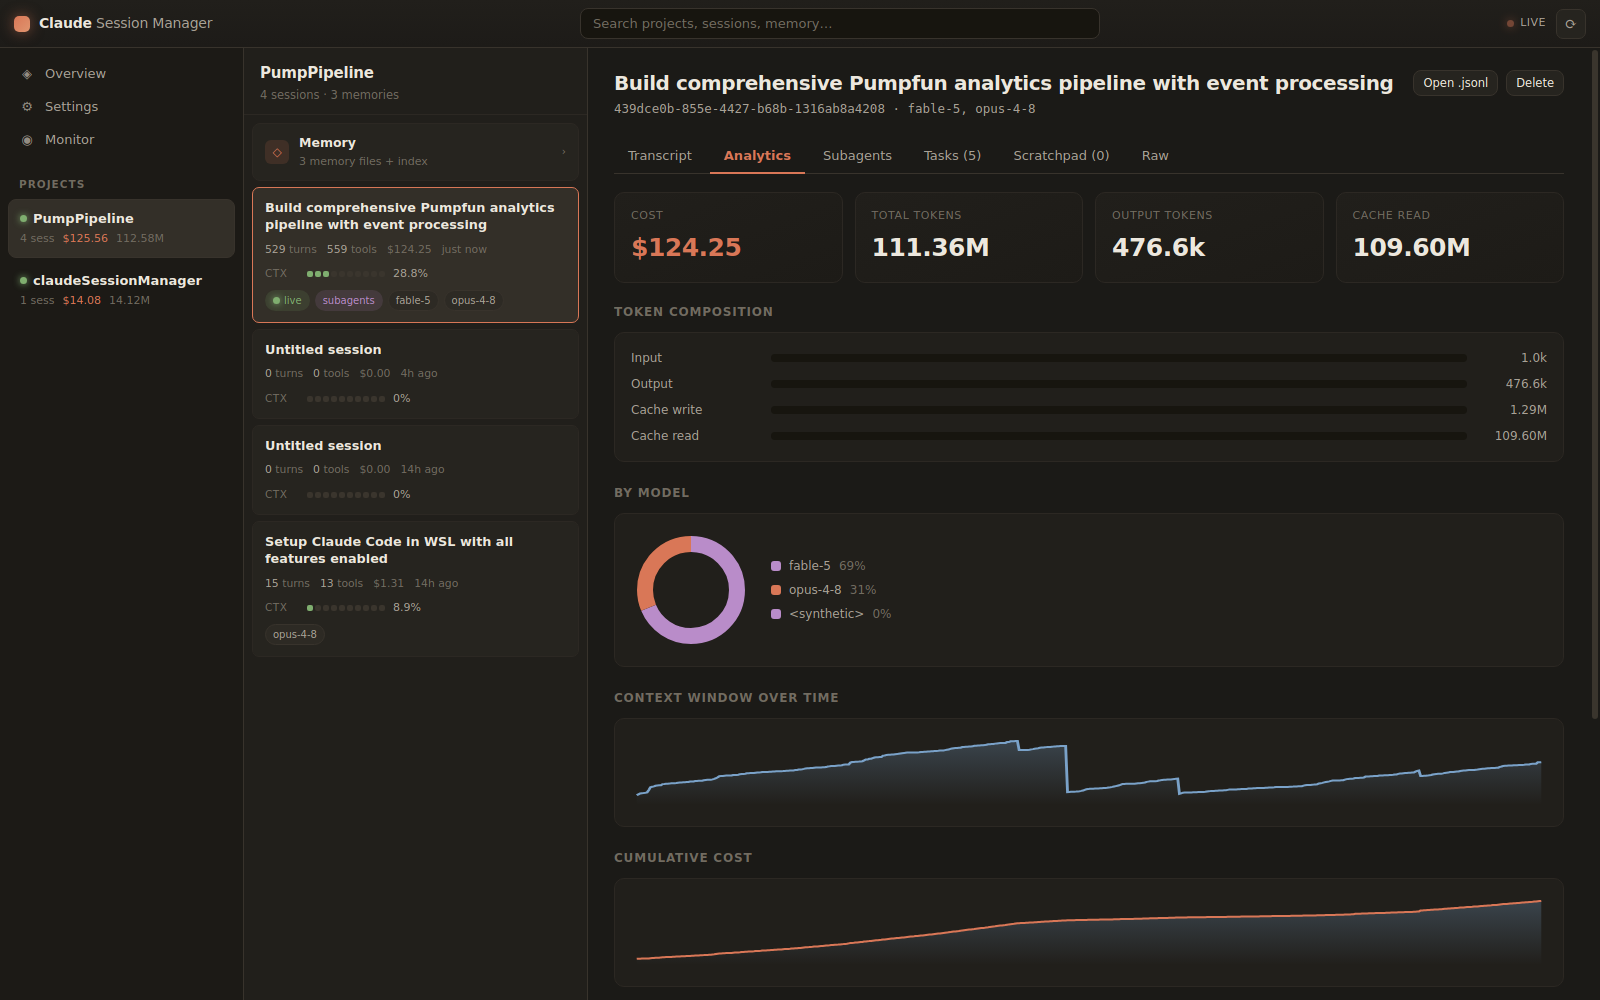
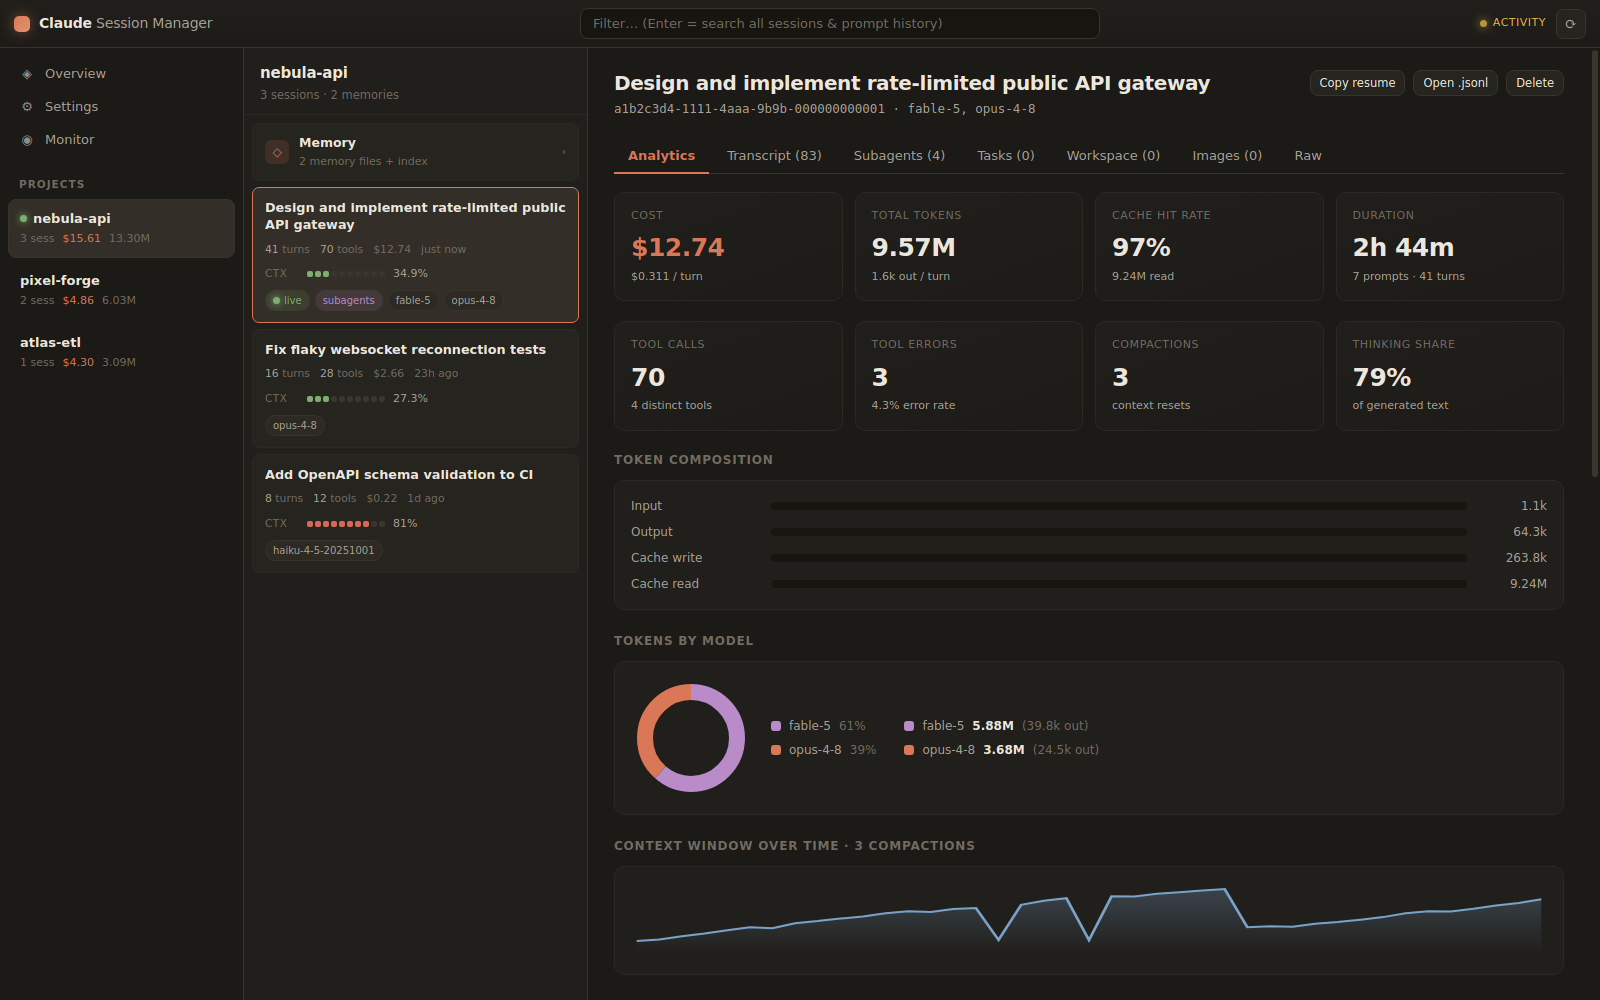
docs: changelog, contributing guide, demo-data screenshots
Screenshots are rendered from a generated demo home — no real usage
data ships in the repo.

Claude-Session: https://claude.ai/code/session_01RHChrrDekDFZSytviwmv3K

diff --git a/CHANGELOG.md b/CHANGELOG.md
@@ -1,0 +1,51 @@
+# Changelog
+
+All notable changes to this project are documented here. The format follows
+[Keep a Changelog](https://keepachangelog.com/) and the project adheres to
+[Semantic Versioning](https://semver.org/).
+
+## [0.3.0] — 2026-07-18
+
+### Changed
+- **Transcripts are paged.** The backend now serves a small window of messages
+  (the newest first) instead of serializing the whole reconstructed transcript;
+  earlier pages load on demand and live sessions append only newly written
+  events. Session payloads shrink from megabytes to kilobytes.
+- **Analytics-first.** Opening a session lands on the Analytics tab.
+- The live indicator is self-explanatory: steady green *watching*, amber
+  *activity* while Claude Code writes to disk.
+
+### Added
+- Greatly expanded per-session analytics, all pre-aggregated server-side:
+  cache hit rate, cost/output per turn, session duration, tool error counts
+  and error rate, errors by tool, context compaction count, thinking share,
+  hottest files (Read/Write/Edit targets), top shell commands, output tokens
+  per turn, and activity-by-hour histogram — alongside the existing token
+  composition, tokens by model, context-over-time and cumulative-cost charts.
+- Subagent view is server-aggregated (Agent/Task invocations + sidechain
+  messages) and independent of the loaded transcript window.
+- CHANGELOG, CONTRIBUTING, and dummy-data documentation screenshots.
+
+## [0.2.0] — 2026-07-18
+
+### Added
+- Global search across all session summaries and the prompt history, with
+  jump-to-session.
+- Image gallery (session image cache), workspace tab (scratchpad + background
+  task outputs), shell snapshots and session environments in Monitor,
+  file-history stats, copy-resume command, in-app file viewer.
+- Settings as toggles/dropdowns writing to `settings.json`; in-app editor for
+  small config files.
+
+### Changed
+- `orjson` decoding and incremental parsing: live sessions parse only appended
+  bytes (~0.1 ms per refresh; cold 10 MB summary ≈ 40 ms). Statusline capture
+  ticks refresh live meters without rescanning.
+
+## [0.1.0] — 2026-07-18
+
+### Added
+- Initial release: project/session browser with cost and context meters,
+  transcript viewer, analytics charts, memory manager with editing, task
+  board, scratchpad browser, settings view, live filesystem watching, and the
+  opt-in statusline capture hook. PySide6 + QtWebEngine, packaged with uv.

diff --git a/CONTRIBUTING.md b/CONTRIBUTING.md
@@ -1,0 +1,46 @@
+# Contributing
+
+Thanks for your interest! This is a small, focused tool — contributions that
+keep it fast and dependency-light are very welcome.
+
+## Development setup
+
+```bash
+git clone https://github.com/devincii-io/claudeSessionManager
+cd claudeSessionManager
+uv sync
+uv run csm
+```
+
+Python ≥ 3.10. The GUI needs a display; on WSL, WSLg works out of the box
+(the app self-configures QtWebEngine, including the vendored `libxkbfile`).
+
+## Code layout
+
+| Path | Responsibility |
+|---|---|
+| `csm/paths.py` | Where Claude Code keeps things, cross-platform |
+| `csm/pricing.py` | Model price table + cost math |
+| `csm/session_parser.py` | Incremental `.jsonl` builders (summary, detail, analytics) |
+| `csm/scanner.py` | Enumeration + caching + paged transcript state |
+| `csm/watcher.py` / `csm/bridge.py` | Live updates and the QWebChannel API |
+| `csm/actions.py` | Anything that writes (deletes, settings, statusline hook) |
+| `web/` | The frontend (vanilla JS, no build step) |
+
+## Ground rules
+
+- **Performance is a feature.** Transcripts can be 100 MB+; never serialize a
+  whole session to the frontend, and keep per-refresh work proportional to
+  what changed (see the incremental builders before adding parsing).
+- **Only write under `~/.claude` deliberately.** Every mutating action lives in
+  `csm/actions.py` behind a path guard; keep it that way.
+- **No network calls.** The app reads local files only.
+- Conventional commits (`feat:`, `fix:`, `perf:`, `docs:`, `chore:`) — match
+  the existing history.
+- Check `uv run python -m compileall csm` passes and click through the views
+  you touched (headless screenshot scripts in the repo history are a handy
+  pattern).
+
+## Releasing
+
+Bump `version` in `pyproject.toml`, add a CHANGELOG entry, tag `vX.Y.Z`.

diff --git a/README.md b/README.md
@@ -10,14 +10,25 @@ settings and live state — all grouped by project and richly visualized. Built
 with **PySide6** + **QtWebEngine** (an HTML/CSS/JS frontend for a beautiful,
 extensible UI) and managed with **uv**. Cross-platform: Linux and Windows.
 
-![Claude Session Manager](docs/screenshot.png)
+![Session analytics](docs/screenshot.png)
+
+| Overview | Transcript |
+|---|---|
+| ![Overview](docs/overview.png) | ![Transcript](docs/transcript.png) |
+
+*(Screenshots show generated demo data.)*
 
 **Fast by design:** `orjson` parsing (a cold 10 MB transcript summarizes in
 ~40 ms), disk-cached summaries keyed by mtime+size, and *incremental* parsing —
 while a session is live, only the newly appended bytes are read (~0.1 ms per
-refresh), never the whole file. The transcript DOM is windowed to the most
-recent messages, and statusline ticks are routed on a cheap path that never
-triggers a rescan.
+refresh), never the whole file. Transcripts are **paged**: the backend serves a
+small window of messages and loads earlier pages on demand, so even a 100 MB
+session opens instantly on every tab; live sessions append only newly written
+events. Statusline ticks are routed on a cheap path that never triggers a
+rescan.
+
+Docs: [CHANGELOG](CHANGELOG.md) · [CONTRIBUTING](CONTRIBUTING.md) ·
+[LICENSE](LICENSE) · [vendor/NOTICE](vendor/NOTICE)
 
 ## What it shows
 